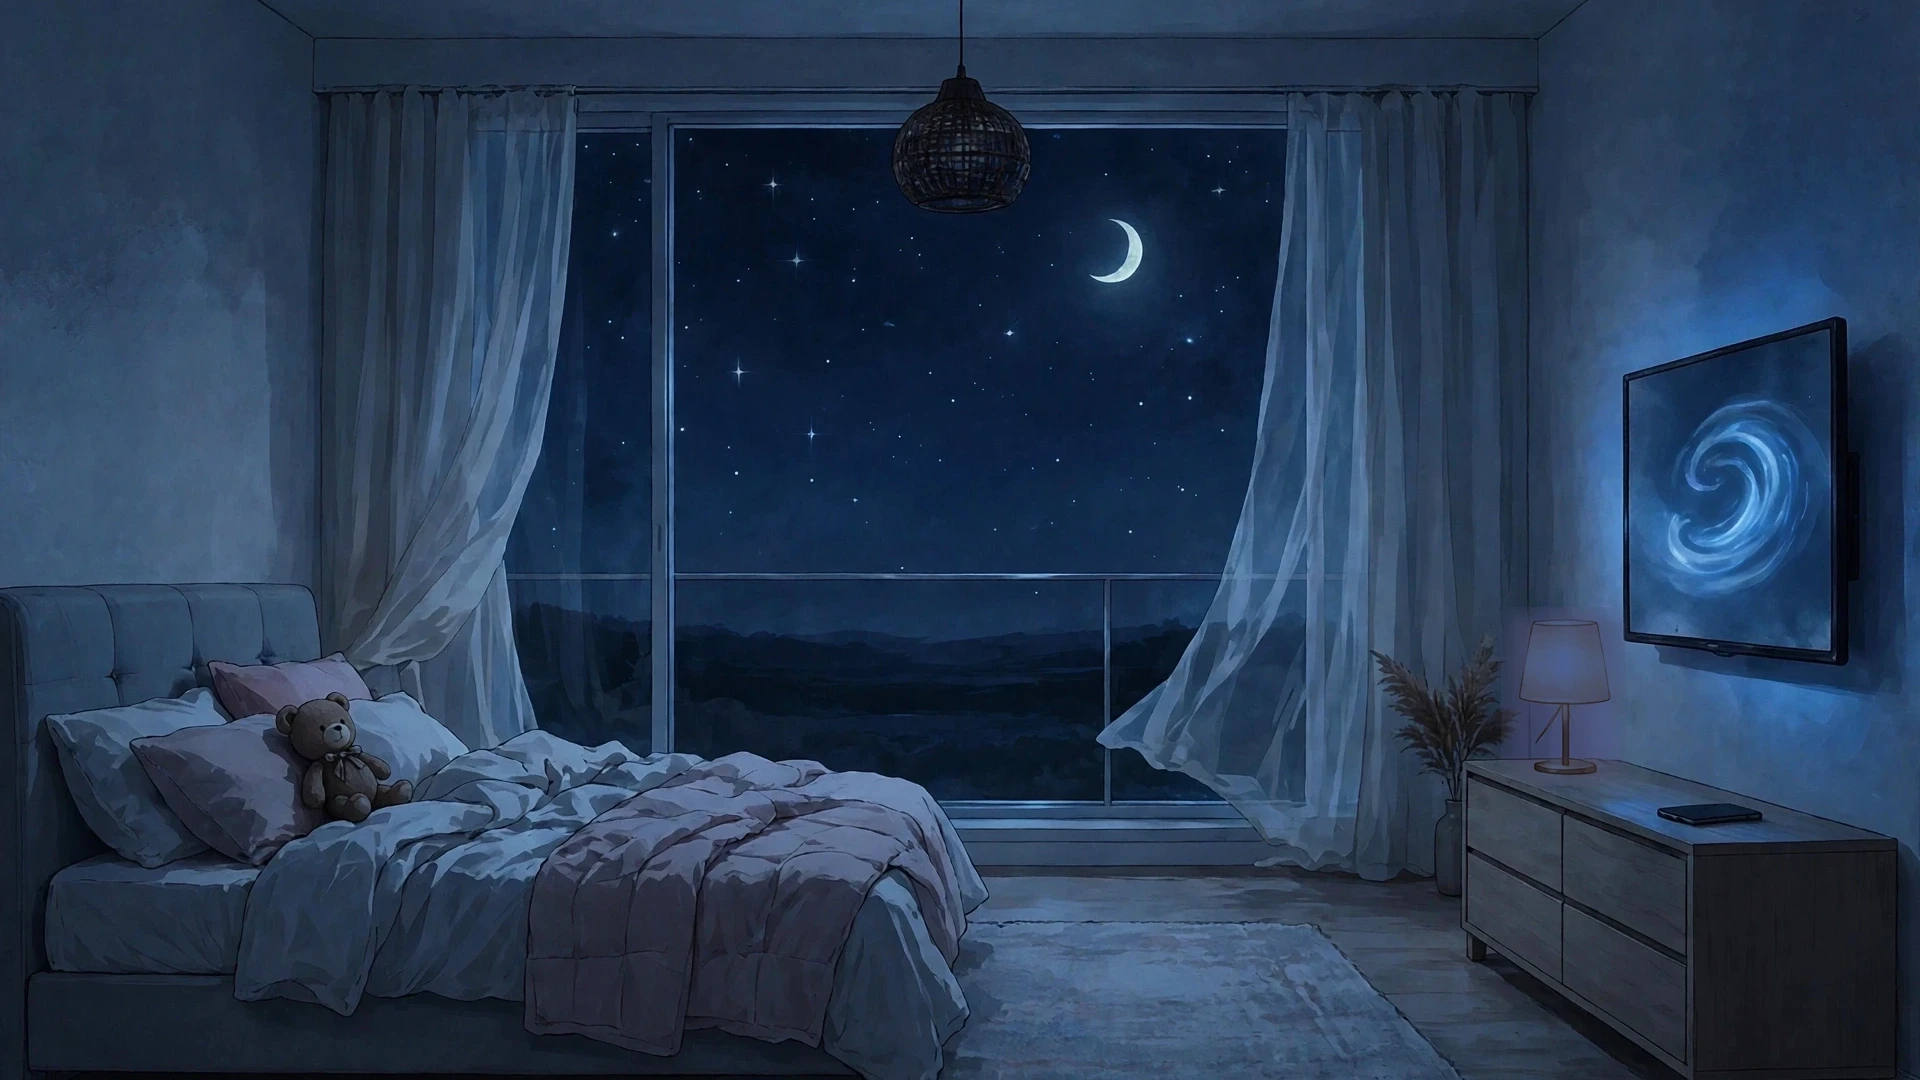
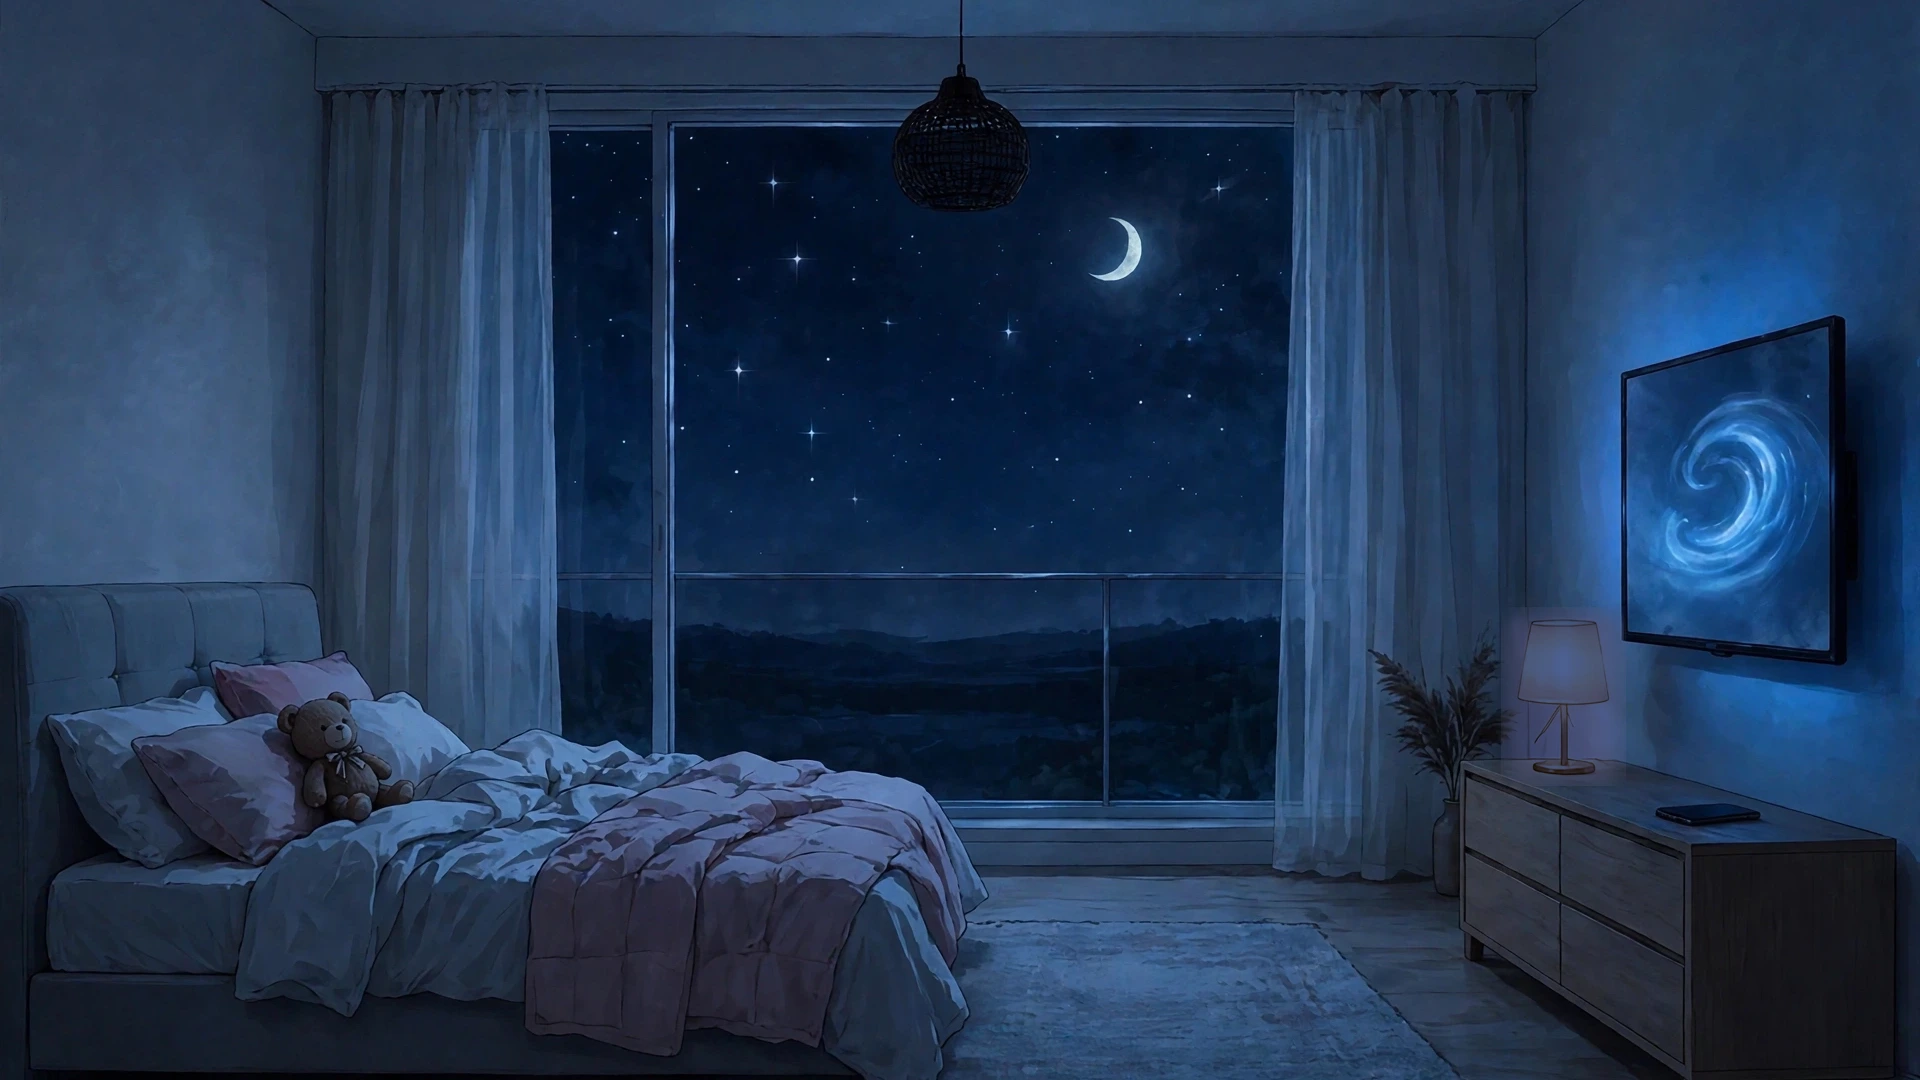
Room v2 fixes (2026-11-15, Daniels panel checks): (1) curtains regenerated hanging straight and still -- the whole plate set re-chained from the new base (lit / lights-off with lamp patch / sleep) so they still match; phone delta re-masked (first pass caught the TVs bottom bezel -- the search window

diff --git a/web/index.html b/web/index.html
@@ -16,15 +16,14 @@
 #c{transition:opacity 1.2s ease}
 .roomlayer{position:absolute;pointer-events:none;transition:opacity .8s ease}
 #daywin{left:26%;top:3%;width:41.5%;height:72%;background:radial-gradient(circle at 72% 20%, rgba(255,244,190,.95), rgba(255,244,190,0) 42%),linear-gradient(180deg,#79bfe8 0%,#cfeafb 58%,#a9cba0 100%);opacity:0;transition:opacity 1.5s ease}
-#tvoff{left:84.6%;top:29.8%;width:11.8%;height:31%;background:linear-gradient(155deg,#262b33 0%,#0a0c10 62%,#12151b 100%);clip-path:polygon(2% 4%,98% 0%,98% 96%,2% 100%);opacity:0}
-#tvinfo{position:absolute;left:84.9%;top:30.6%;width:11.3%;height:29.2%;display:flex;flex-direction:column;align-items:center;justify-content:center;background:rgba(7,17,40,.48);clip-path:polygon(1% 3%,99% 0%,99% 97%,1% 100%);color:#d8efff;font-family:system-ui,sans-serif;text-align:center;pointer-events:none}
-#tvinfo .tt{font-size:2.4vw;font-weight:600;line-height:1;text-shadow:0 0 12px rgba(90,170,255,.8)}
-#tvinfo .ta{font-size:1vw;font-weight:500;opacity:.9;margin-top:.45em}
 @keyframes sgpulse{0%,100%{opacity:.45}50%{opacity:1}}
 #phonedelta{position:absolute;inset:0;width:100%;height:100%;object-fit:cover;opacity:0;transition:opacity .6s ease}
+#tvstage{position:absolute;left:0;top:0;width:800px;height:450px;transform-origin:0 0;background:radial-gradient(120% 95% at 50% 38%,#16355f 0%,#0a1c3a 58%,#060f24 100%);color:#d8efff;font-family:system-ui,sans-serif;display:flex;flex-direction:column;align-items:center;justify-content:center;pointer-events:none;overflow:hidden}
+#tvstage .tt{font-size:118px;font-weight:600;line-height:1;text-shadow:0 0 22px rgba(90,170,255,.75)}
+#tvstage .ta{font-size:45px;font-weight:500;opacity:.92;margin-top:26px}
 </style>
 <div id="bgwrap"><img id="roombg" src="assets/room2-base.webp" alt=""><img id="roombg-off" src="assets/room2-lightoff.webp" alt=""><img id="roombg-sleep" src="assets/room2-sleep.webp" alt="">
-<div id="daywin"></div><div id="tvinfo"><div class="tt"></div><div class="ta"></div></div><div id="tvoff" class="roomlayer"></div>
+<div id="daywin"></div><div id="tvstage"><div class="tt"></div><div class="ta"></div></div>
 
 <img id="phonedelta" src="assets/room2-phonedelta.webp" alt=""></div>
 <canvas id="c"></canvas>
@@ -222,14 +221,13 @@ setInterval(pollRing, 700); pollRing();
 // pulses the speaker's glow (window._speaking, set by the job
 // player).
 (function(){
-  var tv=document.getElementById('tvoff'), off=document.getElementById('roombg-off'),
+  var off=document.getElementById('roombg-off'),
       slp=document.getElementById('roombg-sleep'), pg=document.getElementById('phonedelta'),
       cv=document.getElementById('c');
   function set(el, on){ if (el) el.style.opacity = on ? '1' : '0'; }
   async function tick(){
     try {
       var j = await (await fetch('/roomstate', {cache: 'no-store'})).json();
-      set(tv, j.display_on === false);
       set(off, !!(j.light && j.light.on === false));
       set(pg, !!j.call_active);
       var sleeping = (j.display_on === false) && !!window._isNight;
@@ -241,14 +239,53 @@ setInterval(pollRing, 700); pollRing();
 })();
 </script>
 <script>
-// Painted-TV info (2026-11-15, room v2): the TV in her room carries
-// the time and the next alarm on its screen -- big 12-hour time,
-// alarm line under it (Today / Tomorrow / weekday). The TV-off
-// layer sits above it, so display-off darkens the digits too.
+// Painted-TV viewport (2026-11-15, room v2): her TV is a real
+// window, not a sticker -- a stage element perspective-warped
+// (matrix3d homography, recomputed on resize) onto the screen
+// quad measured from the paintings own bezel pixels, so whatever
+// the stage shows sits IN the screen at its exact slant. It no
+// longer tracks the real display state: if the display is off,
+// the room is not visible anyway. Default content: the clock
+// screensaver -- big 12-hour time + next-alarm line. Anything
+// else can be dropped into #tvstage later.
 (function(){
-  var tt = document.querySelector('#tvinfo .tt'), ta = document.querySelector('#tvinfo .ta');
-  if (!tt) return;
-  function tick(){ tt.textContent = new Date().toLocaleTimeString('en-US', {hour: 'numeric', minute: '2-digit'}); }
+  var stage = document.getElementById('tvstage');
+  if (!stage) return;
+  var QUAD = [[0.8509, 0.3349], [0.9575, 0.3151], [0.9587, 0.5973], [0.8522, 0.5921]];
+  var SW = 800, SH = 450;
+  function solve(A, b) {
+    var n = b.length;
+    for (var i = 0; i < n; i++) {
+      var piv = i;
+      for (var r = i + 1; r < n; r++) if (Math.abs(A[r][i]) > Math.abs(A[piv][i])) piv = r;
+      var tmp = A[i]; A[i] = A[piv]; A[piv] = tmp;
+      var tb = b[i]; b[i] = b[piv]; b[piv] = tb;
+      for (var r2 = 0; r2 < n; r2++) {
+        if (r2 === i) continue;
+        var f = A[r2][i] / A[i][i];
+        for (var c = i; c < n; c++) A[r2][c] -= f * A[i][c];
+        b[r2] -= f * b[i];
+      }
+    }
+    var x = [];
+    for (var i2 = 0; i2 < n; i2++) x[i2] = b[i2] / A[i2][i2];
+    return x;
+  }
+  function fit() {
+    var w = innerWidth, h = innerHeight;
+    var src = [[0, 0], [SW, 0], [SW, SH], [0, SH]];
+    var dst = QUAD.map(function(q) { return [q[0] * w, q[1] * h]; });
+    var A = [], b = [];
+    for (var i = 0; i < 4; i++) {
+      A.push([src[i][0], src[i][1], 1, 0, 0, 0, -dst[i][0] * src[i][0], -dst[i][0] * src[i][1]]); b.push(dst[i][0]);
+      A.push([0, 0, 0, src[i][0], src[i][1], 1, -dst[i][1] * src[i][0], -dst[i][1] * src[i][1]]); b.push(dst[i][1]);
+    }
+    var H = solve(A, b);
+    stage.style.transform = 'matrix3d(' + [H[0], H[3], 0, H[6], H[1], H[4], 0, H[7], 0, 0, 1, 0, H[2], H[5], 0, 1].join(',') + ')';
+  }
+  fit(); addEventListener('resize', fit);
+  var tt = stage.querySelector('.tt'), ta = stage.querySelector('.ta');
+  function tick() { tt.textContent = new Date().toLocaleTimeString('en-US', {hour: 'numeric', minute: '2-digit'}); }
   tick(); setInterval(tick, 5000);
   function fmt(j) {
     if (j.ringing) return '⏰ now';
@@ -259,7 +296,7 @@ setInterval(pollRing, 700); pollRing();
     var day = nf.toDateString() === now.toDateString() ? 'Today' : (nf.toDateString() === tmr.toDateString() ? 'Tomorrow' : nf.toLocaleDateString('en-US', {weekday: 'short'}));
     return '⏰ ' + day + ' ' + time;
   }
-  async function ap(){ try { var j = await (await fetch('/alarm', {cache: 'no-store'})).json(); ta.textContent = fmt(j); } catch (e) {} }
+  async function ap() { try { var j = await (await fetch('/alarm', {cache: 'no-store'})).json(); ta.textContent = fmt(j); } catch (e) {} }
   ap(); setInterval(ap, 30000);
 })();
 </script>
